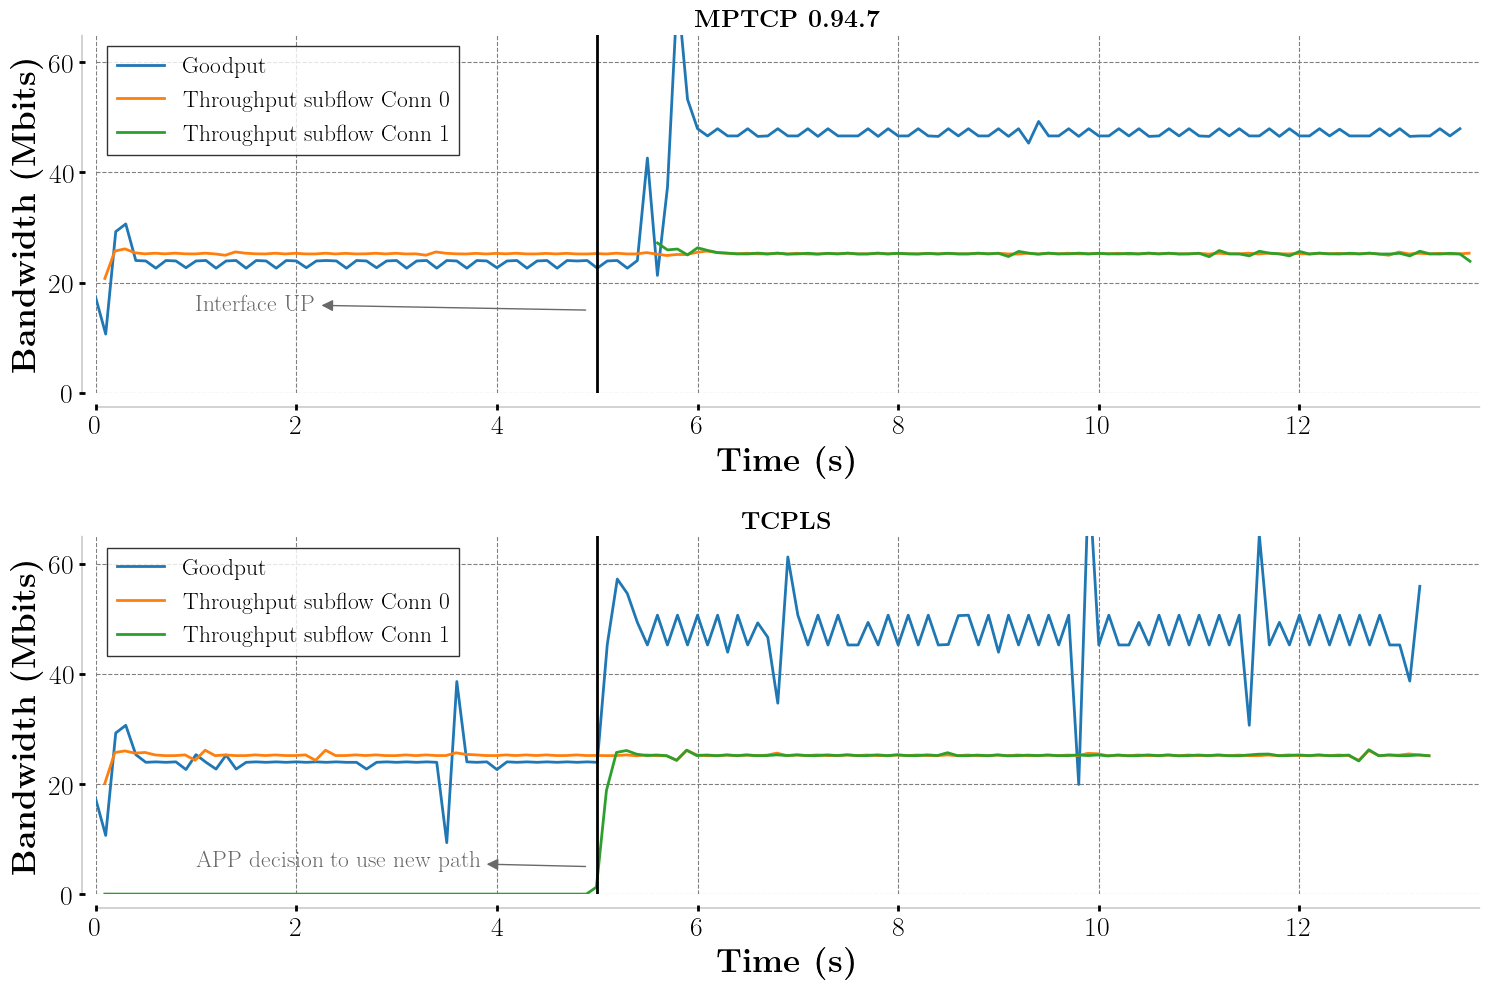
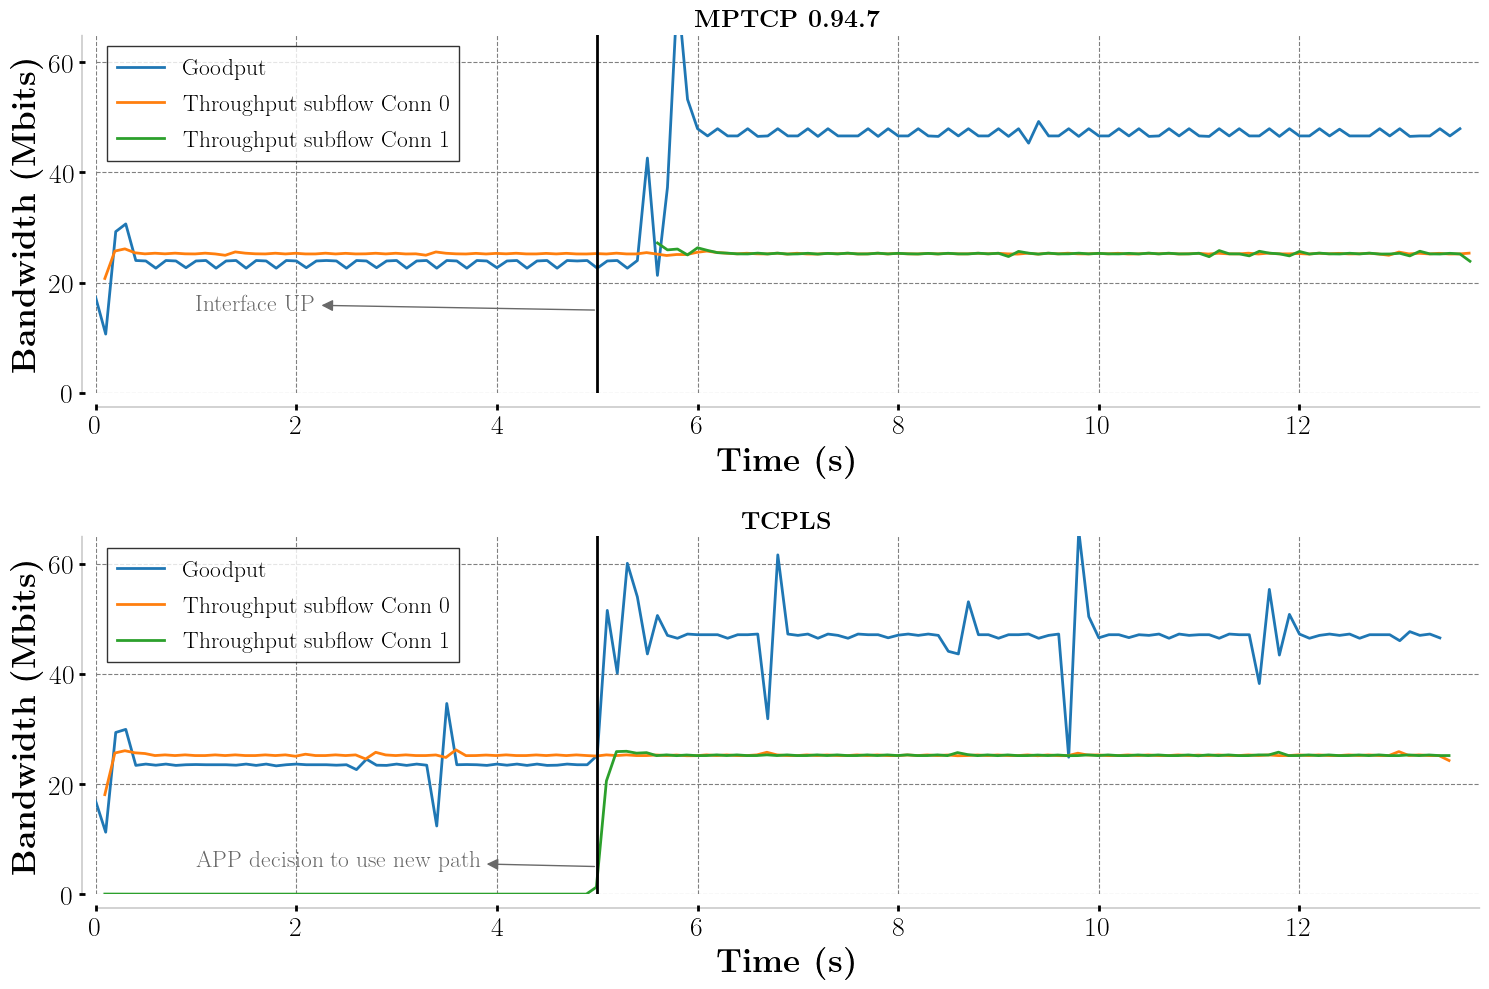
appendix multipath aggregation

diff --git a/appendix.tex b/appendix.tex
@@ -107,7 +107,7 @@ but not both at the same time).
 
 
 Table~\ref{table:tcplsvsquic} compares the features supported by
-\tcp, \tls/\tcp, \quic and \tcpls. \quic and \tcpls are very similar in their
+\tcp, \mptcp, \tls/\tcp, \quic and \tcpls. \quic and \tcpls are very similar in their
 capabilities. They mainly differ in their semantic. \tcpls's semantic is to let
 the applications make the decision, and we design its API to fulfill this goal.
 That is, the meaning of \tcpls is to offer advanced, extensible and secure
@@ -147,6 +147,9 @@ Note that several of the features suggested by \tcpls are also suggested on \tcp
 \end{table*}
 
 \section{Failover Protocol}
+
+\todo{Describe the protocol}
+
 % Agents
 \def\Client{Client}
 \def\Server{Server}
@@ -156,6 +159,7 @@ Note that several of the features suggested by \tcpls are also suggested on \tcp
 
 \begin{figure*}[!t]
  \begin{center}
+   \begin{tiny}
 \begin{tikzpicture}[every node/.style={font=\tiny, minimum height=0.03cm,minimum width=0.03cm},scale=0.90, transform shape]
 \tikzset{label/.style={align=center,minimum height=0.5cm,minimum width=5mm}}
 \node [matrix, very thin,column sep=2.2cm,row sep=0.05cm] (matrix) at (0,0) {
@@ -437,5 +441,33 @@ Note that several of the features suggested by \tcpls are also suggested on \tcp
     node[font=\footnotesize, below] {};
 
 \end{tikzpicture}
+\end{tiny}
 \end{center}
+  \caption{Example of record messages exchanged covering the attachment of a
+    new stream, the reception of DATA\_RECORD containing application payload, the exchange of DATA\_ACK, a Failover
+    event in which the stream is recovered and finally a secure closing the
+    connection. Real trace captured with qlog and pruned to only show
+    interesting messages}
+  \label{fig:protocol_example}
 \end{figure*}
+
+\section{Multipath Aggregation}
+\label{appendix:aggr}
+
+Figure~\ref{fig:aggregation_1500bytes_records} shows the same experiment than
+the one provided in our evaluation Section~\ref{sec:bwaggr}. However, we use
+1500 bytes record size for \tcpls in order to demonstrate that the
+irregularities are mainly due to the payload chunk size that the reordering
+algorithm has to manipulate. The larger the records are, the bigger
+the payload chunk size is, and higher irregularities should be observed. We
+observe here a steady goodput with several large irregularities, which is a
+progress compared to Figure~\ref{fig:multipath_aggregation}. However, large
+peaks remain, which are probably linked to the state of advancement of our
+research prototype: several bugs might remain.
+
+\begin{figure}
+  \includegraphics[width=\columnwidth]{figures/aggregate_1500bytes_records_dual.png}
+  \caption{\tcpls path aggregation with $1500$ bytes record size, compared to
+    \tls over \mptcp with 16384 bytes record size}
+  \label{fig:aggregation_1500bytes_records}
+\end{figure}

diff --git a/evaluation.tex b/evaluation.tex
@@ -227,7 +227,7 @@ to cancel a migration attempt).
 
 
 \subsection{Bandwidth Aggregation}
-
+\label{sec:bwaggr}
 We compare the capability of \tcpls to the state of the art \mptcp. Both
 protocols run in the same Mininet topology with two IP paths available, 
 \todo{KE: Description of mininet topology comes after this reference}
@@ -244,7 +244,7 @@ goodput to  $\approx$ 50 mbps. There are two major differences displayed by the 
 First, upping the interface, adding the routes and detecting the new path in
 the case of \mptcp is time consuming. It leads \mptcp to react slower than
 \tcpls regarding the availability of the new path. Second, \tcpls's aggregated
-goodput seems less stable than \mptcp. This discrepency is explained by the
+goodput seems less stable than \mptcp. This discrepency might explained by the
 difference of chunk size manipulated by the reordering algorithm: \mptcp
 reorders packets with a payload of $1460$ bytes, while \tcpls in this experiment
 reorders records with the maximum payload size of $16384$ bytes. That means
@@ -254,7 +254,8 @@ However, \tcpls might  negotiate the record size to smooth out this
 irregularity. Setting a record size around $1500$ bytes would make \mptcp and
 \tcpls' results lookalike, but would be slightly more CPU costly since we need
 to use encryption/decryption code path more often.
-\fr{Do I link a figure with 1500 bytes records in the appendix?}
+Appendix~\ref{appendix:aggr} shows the results of the same experiment but using
+a \tls record size of $1500$ bytes instead.
 
 \begin{figure}[!t]
   \begin{center}

diff --git a/pretty_plotify/plot_aggregate_dual.py b/pretty_plotify/plot_aggregate_dual.py
@@ -138,11 +138,10 @@ if __name__ == "__main__":
     x_max = 0
     for ax in axs:
         x_g, y_g, min_timing_g = parse_goodput(args.goodput[elem], args.i*1000000)
-        min_timing = min(min_timing, min_timing_g)
-        x_max = max(x_max, (x_g[-1]-min_timing)/1000000)
+        x_max = max(x_max, (x_g[-1]-min_timing_g)/1000000)
         #print("goodput tot : {0} bytes".format(sum(y_g)))
 
-        ax.plot([(x-min_timing)/1000000 for x in x_g[:-1]],
+        ax.plot([(x-min_timing_g)/1000000 for x in x_g[:-1]],
                 [(y*8/1000000)/(2*args.i) for y in y_g[:-1]], label=legend_label("Goodput"), lw=2)
         paths, x_t, y_t, min_timing_t = parse_tcpdump(args.tcpdump[elem], args.i*1000000)
         counter = 0
@@ -159,7 +158,7 @@ if __name__ == "__main__":
         #ax.text((event-min_timing)/1000000, args.event_pos[elem], args.event_text[elem],
         #         color="k")
         ax.annotate(legend_label(args.event_text[elem]),
-                    xy=((event-min_timing)/1000000, args.event_pos[elem]),
+                    xy=((event-min_timing_t)/1000000, args.event_pos[elem]),
                     xytext=(1, (args.event_pos[elem])),
                     arrowprops=dict(arrowstyle="<|-", color='dimgray'), fontsize=17,
                     color='dimgray')
